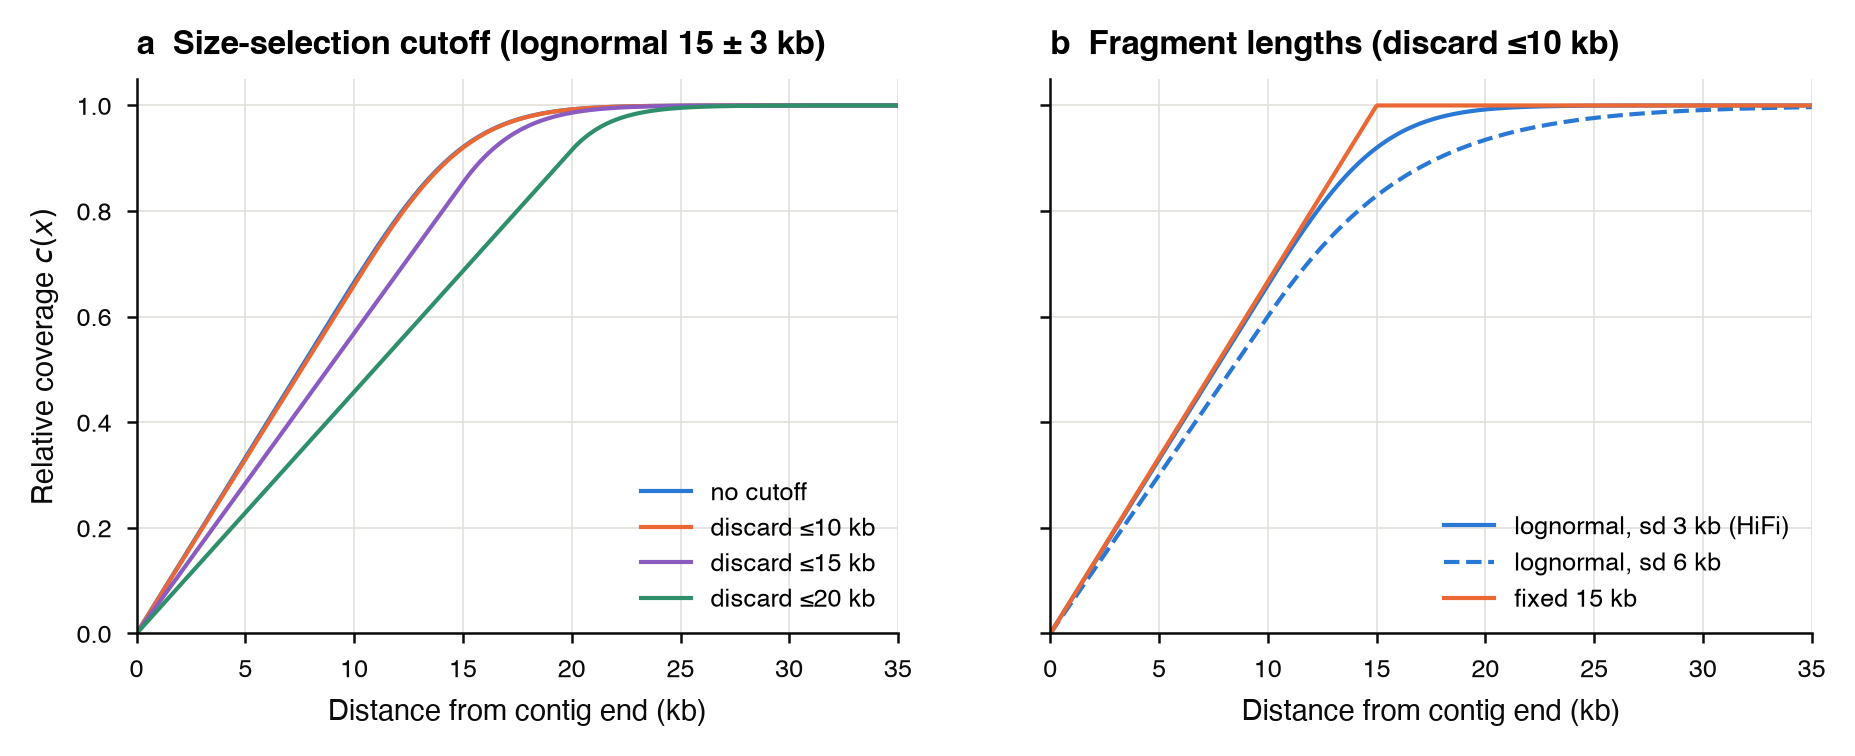
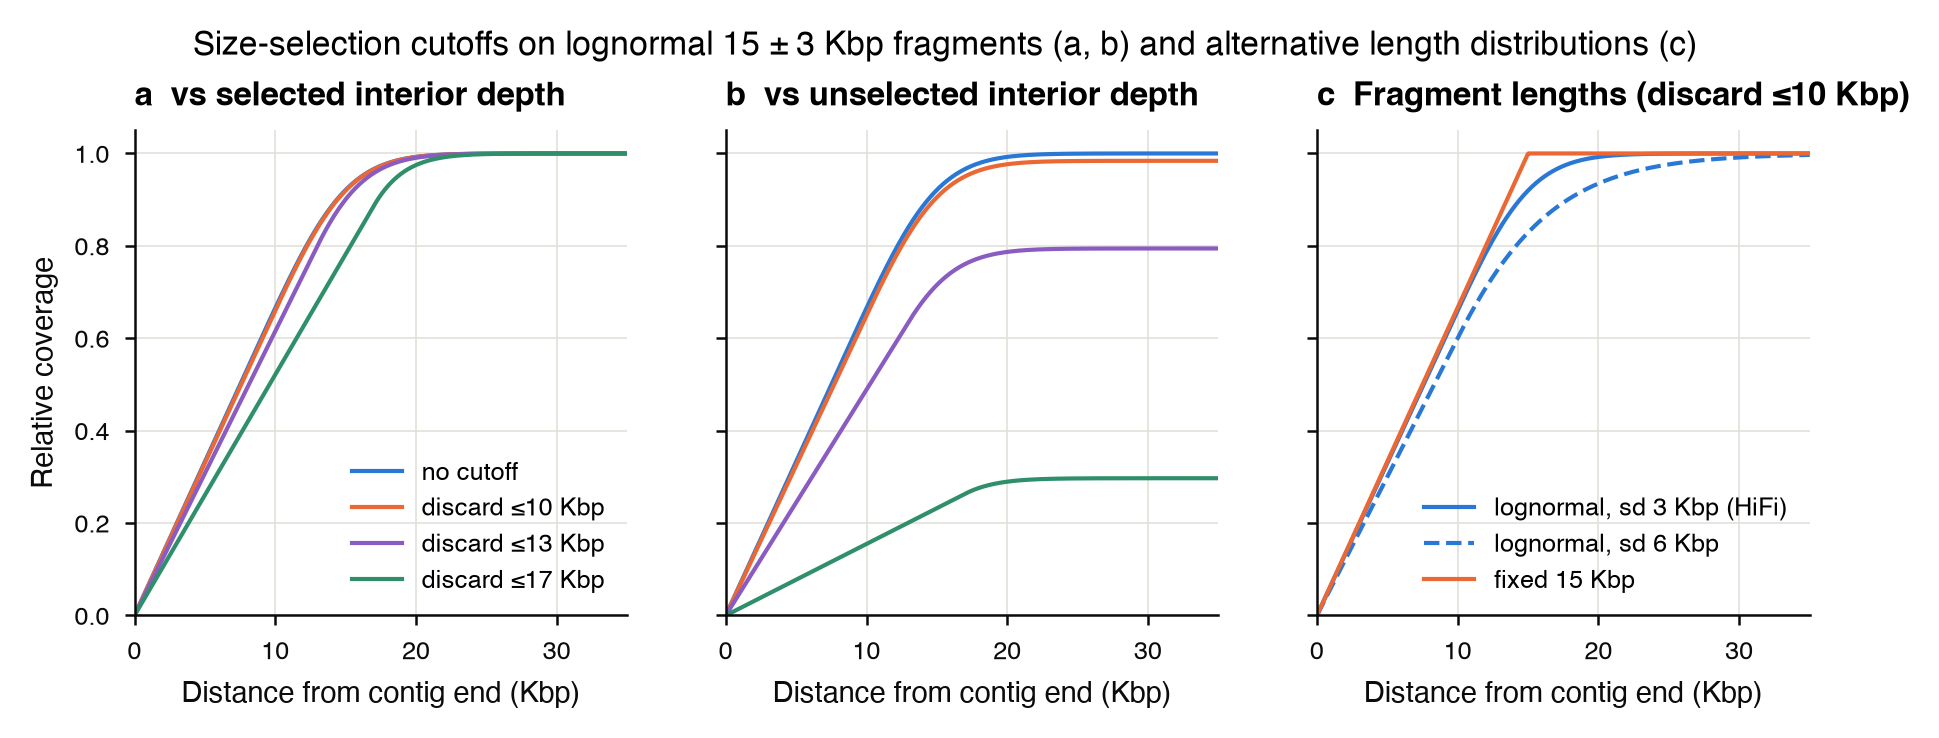
docs: add unselected-library panel, clarify c(x) normalisation, use Kbp units
The analytic figure gains a third panel: (a) coverage relative to the
selected library's own interior depth, (b) the same curves renormalised
to the unselected library so the interior plateau shows the yield lost
to size selection (~98/79/30% of bases retained at 10/13/17 Kbp), and
(c) alternative length distributions. Cutoff family is now 10/13/17 Kbp.
A note on the page explains why c(x) reaches 1 in the interior for any
cutoff, and the takeaways walk through shape vs yield. DNA lengths are
labelled Kbp throughout the figures, page and interactive explorer.

Claude-Session: https://claude.ai/code/session_01KFmp1HkfbvA3PqVqryhb4Q

diff --git a/docs/javascripts/coverage-decay.js b/docs/javascripts/coverage-decay.js
@@ -172,7 +172,7 @@
       el(
         'text',
         { x: PAD_L + plotW / 2, y: H - 8, class: 'cd-label', 'text-anchor': 'middle' },
-        'Distance from contig end (kb)'
+        'Distance from contig end (Kbp)'
       )
     );
     var yLabel = el(
@@ -224,13 +224,13 @@
   // --- controls ----------------------------------------------------------
 
   // Defaults mirror the PacBio HiFi-like library used in the static figures:
-  // lognormal 15 +/- 3 kb with a strict 10 kb lower-bound cutoff.
+  // lognormal 15 +/- 3 Kbp with a strict 10 Kbp lower-bound cutoff.
   var SLIDERS = [
     { key: 'depth', label: 'Interior depth', min: 5, max: 100, step: 1, value: 30, unit: '×' },
-    { key: 'mean', label: 'Mean fragment length', min: 1000, max: 30000, step: 500, value: 15000, unit: 'kb', kb: true },
-    { key: 'sd', label: 'Fragment length sd', min: 500, max: 15000, step: 250, value: 3000, unit: 'kb', kb: true },
-    { key: 'cutoff', label: 'Lower-bound cutoff (discard shorter)', min: 0, max: 25000, step: 500, value: 10000, unit: 'kb', kb: true },
-    { key: 'window', label: 'x-axis range', min: 10000, max: 100000, step: 5000, value: 35000, unit: 'kb', kb: true },
+    { key: 'mean', label: 'Mean fragment length', min: 1000, max: 30000, step: 500, value: 15000, unit: 'Kbp', kb: true },
+    { key: 'sd', label: 'Fragment length sd', min: 500, max: 15000, step: 250, value: 3000, unit: 'Kbp', kb: true },
+    { key: 'cutoff', label: 'Lower-bound cutoff (discard shorter)', min: 0, max: 25000, step: 500, value: 10000, unit: 'Kbp', kb: true },
+    { key: 'window', label: 'x-axis range', min: 10000, max: 100000, step: 5000, value: 35000, unit: 'Kbp', kb: true },
   ];
 
   function fmt(spec, value) {
@@ -315,7 +315,7 @@
         var at1kb = params.depth * curve(1000);
         summary.textContent =
           'Expected reads spanning the outermost base: ' + atEnd.toFixed(2) +
-          ' • covering 1 kb in: ' + at1kb.toFixed(1) +
+          ' • covering 1 Kbp in: ' + at1kb.toFixed(1) +
           ' • interior: ' + params.depth + '. ' +
           'Overhang candidates can only come from that first number.';
       } else {

diff --git a/src/teloclip/model/figures.py b/src/teloclip/model/figures.py
@@ -101,11 +101,13 @@ def plot_decay_families(out_path: str) -> None:
     """
     Plot analytic decay curves across cutoffs and length distributions.
 
-    Two panels around a PacBio HiFi-like library (lognormal, mean 15 kb,
-    sd 3 kb, strict 10 kb lower-bound size selection): (a) that profile under
-    increasingly harsh cutoffs — fragments below the cutoff are discarded —
-    and (b) different fragment-length distributions under the 10 kb cutoff,
-    showing how distribution shape moves the decay.
+    Three panels around a PacBio HiFi-like library (lognormal, mean 15 Kbp,
+    sd 3 Kbp, strict 10 Kbp lower-bound size selection; fragments below the
+    cutoff are discarded): (a) coverage relative to the *selected* library's
+    own interior depth, which isolates the shape of the decay; (b) the same
+    curves renormalised to the *unselected* library's interior depth, which
+    adds back the yield lost to size selection; (c) different fragment-length
+    distributions under the 10 Kbp cutoff.
 
     Parameters
     ----------
@@ -117,51 +119,72 @@ def plot_decay_families(out_path: str) -> None:
     profile = LognormalLengths(mean=15_000.0, sd=3000.0)
     x = np.linspace(0.0, 35_000.0, 700)
     xk = x / 1000.0
+    cutoffs = (0.0, 10_000.0, 13_000.0, 17_000.0)
 
     with nature_style():
-        fig, (ax_a, ax_b) = plt.subplots(
-            1, 2, figsize=(DOUBLE_COL_IN, 2.4), sharey=True
+        fig, (ax_a, ax_b, ax_c) = plt.subplots(
+            1, 3, figsize=(DOUBLE_COL_IN, 2.1), sharey=True
         )
 
-        # Panel a: one distribution, one distinctly coloured curve per
-        # cutoff, identified through the legend.
-        cutoffs = (0.0, 10_000.0, 15_000.0, 20_000.0)
+        # Panels a and b: one distribution, one distinctly coloured curve per
+        # cutoff, identified through the shared legend. Panel a normalises to
+        # the selected library's interior depth (c(x), which always reaches 1
+        # in the interior); panel b rescales each curve by the fraction of
+        # sequenced bases the cutoff retains, S(Lmin) * E[l|trunc] / E[l], so
+        # the interior plateau shows the yield cost at equal sequencing
+        # effort.
         for cutoff, color in zip(cutoffs, CUTOFF_COLORS):
             c = expected_relative_coverage(x, profile, min_length=cutoff)
-            label = 'no cutoff' if cutoff == 0 else f'discard ≤{cutoff / 1000:g} kb'
+            label = 'no cutoff' if cutoff == 0 else f'discard ≤{cutoff / 1000:g} Kbp'
             ax_a.plot(xk, c, color=color, label=label)
+            if cutoff > 0:
+                surv = float(profile.survival(np.array([cutoff]))[0])
+                retained = surv * profile.truncated_mean(cutoff) / profile.mean
+            else:
+                retained = 1.0
+            ax_b.plot(xk, retained * c, color=color)
         ax_a.legend(loc='lower right')
-        ax_a.set_xlabel('Distance from contig end (kb)')
-        ax_a.set_ylabel('Relative coverage $c(x)$')
+        ax_a.set_ylabel('Relative coverage')
         ax_a.set_title(
-            'a  Size-selection cutoff (lognormal 15 ± 3 kb)',
+            'a  vs selected interior depth',
+            loc='left',
+            fontweight='bold',
+        )
+        ax_b.set_title(
+            'b  vs unselected interior depth',
             loc='left',
             fontweight='bold',
         )
 
-        # Panel b: one cutoff, distribution identity in the two categorical
-        # hues plus line style, each directly labelled.
+        # Panel c: one cutoff, distribution identity in the two categorical
+        # hues plus line style.
         cutoff = 10_000.0
         series = (
-            (profile, BLUE, '-', 'lognormal, sd 3 kb (HiFi)'),
+            (profile, BLUE, '-', 'lognormal, sd 3 Kbp (HiFi)'),
             (
                 LognormalLengths(mean=15_000.0, sd=6000.0),
                 BLUE,
                 '--',
-                'lognormal, sd 6 kb',
+                'lognormal, sd 6 Kbp',
             ),
-            (FixedLength(15_000.0), ORANGE, '-', 'fixed 15 kb'),
+            (FixedLength(15_000.0), ORANGE, '-', 'fixed 15 Kbp'),
         )
         for dist, color, style, label in series:
             c = expected_relative_coverage(x, dist, min_length=cutoff)
-            ax_b.plot(xk, c, color=color, linestyle=style, label=label)
-        ax_b.set_xlabel('Distance from contig end (kb)')
-        ax_b.set_title(
-            'b  Fragment lengths (discard ≤10 kb)', loc='left', fontweight='bold'
+            ax_c.plot(xk, c, color=color, linestyle=style, label=label)
+        ax_c.set_title(
+            'c  Fragment lengths (discard ≤10 Kbp)', loc='left', fontweight='bold'
         )
-        ax_b.legend(loc='lower right')
+        ax_c.legend(loc='lower right')
 
-        for ax in (ax_a, ax_b):
+        fig.suptitle(
+            'Size-selection cutoffs on lognormal 15 ± 3 Kbp fragments (a, b)'
+            ' and alternative length distributions (c)',
+            y=1.04,
+            fontsize=8,
+        )
+        for ax in (ax_a, ax_b, ax_c):
+            ax.set_xlabel('Distance from contig end (Kbp)')
             ax.set_xlim(0, 35)
             ax.set_ylim(0, 1.05)
 
@@ -239,13 +262,13 @@ def plot_decay_with_ci(
             color=MUTED,
         )
 
-        ax.set_xlabel('Distance from contig end (kb)')
+        ax.set_xlabel('Distance from contig end (Kbp)')
         ax.set_ylabel('Coverage (reads)')
         ax.set_xlim(0, window / 1000.0)
         ax.set_ylim(0, None)
         ax.set_title(
-            f'Lognormal fragments {profile.mean / 1000:g} ± {profile.sd / 1000:g} kb'
-            f' · discard ≤{cutoff / 1000:g} kb · depth {depth:g}×',
+            f'Lognormal fragments {profile.mean / 1000:g} ± {profile.sd / 1000:g} Kbp'
+            f' · discard ≤{cutoff / 1000:g} Kbp · depth {depth:g}×',
             loc='left',
             fontweight='bold',
         )

diff --git a/docs/guide/coverage-decay.md b/docs/guide/coverage-decay.md
@@ -42,6 +42,18 @@ fragment length, so both numerator and denominator use the truncated
 distribution. Absolute expected coverage is \(D \cdot c(x)\), where \(D\) is
 the interior depth after size selection.
 
+!!! note "What \(c(x)\) is normalised to"
+
+    \(c(x)\) is coverage relative to the interior depth of the *selected*
+    library — the reads that survive the cutoff. Because the survivors, however
+    few, still fragment uniformly along the molecule, they tile the interior
+    evenly and \(c(x) \to 1\) in the interior for **any** cutoff. What a harsh
+    cutoff really costs is *yield*: at equal sequencing effort, only a fraction
+    \(S(L_{\min}) \cdot \mathbb{E}[\ell \mid \ell \ge L_{\min}] / \mathbb{E}[\ell]\)
+    of sequenced bases survive, so the absolute depth \(D\) drops everywhere.
+    Panel **b** below adds that yield factor back by normalising to the
+    *unselected* library's interior depth.
+
 The model assumes the molecule is far longer than any fragment
 (semi-infinite): on a real chromosome the same decay is simply mirrored at
 the other terminus.
@@ -78,34 +90,43 @@ curve near the terminus.
 ## What the curves look like
 
 The figures below use a PacBio HiFi-like library: lognormal fragment lengths
-with mean 15 kb and sd 3 kb, and a strict lower-bound size-selection cutoff
-of 10 kb (every fragment shorter than the cutoff is discarded).
+with mean 15 Kbp and sd 3 Kbp, and a strict lower-bound size-selection cutoff
+of 10 Kbp (every fragment shorter than the cutoff is discarded).
 
-![Two-panel figure of analytic coverage-decay curves. Panel a: relative coverage against distance from the contig end for a lognormal read profile with mean 15 kb and sd 3 kb under lower-bound size-selection cutoffs of none, 10, 15 and 20 kb; harsher cutoffs push the decay region deeper into the contig. Panel b: the same curve at the 10 kb cutoff for the HiFi profile, a wider sd 6 kb lognormal, and a fixed 15 kb fragment length; wider length distributions stretch the decay further.](../images/coverage-decay-analytic.png)
+![Three-panel figure of analytic coverage-decay curves for a lognormal read profile with mean 15 Kbp and sd 3 Kbp. Panel a: coverage relative to the selected library's interior depth under lower-bound cutoffs of none, 10, 13 and 17 Kbp; every curve reaches 1 in the interior, and harsher cutoffs deepen the decay region. Panel b: the same curves normalised to the unselected library's interior depth; the interior plateaus drop to 98, 79 and 30 percent as the cutoffs discard more of the library. Panel c: the decay at the 10 Kbp cutoff for the HiFi profile, a wider sd 6 Kbp lognormal, and a fixed 15 Kbp fragment length; wider length distributions stretch the decay further.](../images/coverage-decay-analytic.png)
 
-Three things to take away:
+Four things to take away:
 
 - **The decay region is about one (truncated) mean fragment length deep.**
-  With the 15 ± 3 kb HiFi profile, coverage within 5 kb of the terminus is
+  With the 15 ± 3 Kbp HiFi profile, coverage within 5 Kbp of the terminus is
   only about a third of the interior depth, and interior depth is not
-  reached until ~20 kb in.
+  reached until ~20 Kbp in.
 - **Below the cutoff distance the curve is an exact straight line.** Every
-  surviving fragment is at least 10 kb, so for \(x < L_{\min}\) the number
+  surviving fragment is at least 10 Kbp, so for \(x < L_{\min}\) the number
   of placements that cover \(x\) grows linearly with \(x\) regardless of the
   length distribution — the distribution only shapes the shoulder beyond the
   cutoff.
-- **Cutoffs bite when they reach the typical length.** The 10 kb HiFi cutoff
-  discards only ~3% of a 15 ± 3 kb library, so its curve sits almost on the
-  no-cutoff curve; pushing the cutoff to 15–20 kb (at or above the mean)
-  discards most fragments and drags the depleted region far deeper.
+- **Panel a shows shape; panel b shows shape plus yield.** In panel a even
+  the ≤17 Kbp curve reaches 1 in the interior, which can look wrong — the
+  15 ± 3 Kbp library has almost no fragments that long. It is correct
+  because \(c(x)\) is normalised to the *selected* library's own interior
+  depth (see the note above). Panel b renormalises to the unselected
+  library: at equal sequencing effort the 10, 13 and 17 Kbp cutoffs retain
+  ~98%, ~79% and ~30% of sequenced bases, which is where those interior
+  plateaus land.
+- **Cutoffs bite when they reach the typical length.** The 10 Kbp HiFi
+  cutoff discards only ~3% of fragments, so its curves sit almost on the
+  no-cutoff curves in both panels; cutoffs approaching the mean (13 Kbp
+  discards ~27% of fragments, 17 Kbp ~77%) deepen the depleted region *and*
+  collapse yield.
 
-Simulation confirms the analytic curve. Each simulation fragments a 1 Mb
-molecule with lognormal fragment lengths (mean 15 kb, sd 3 kb), discards
-fragments below the 10 kb lower-bound cutoff, places the survivors at 30×
+Simulation confirms the analytic curve. Each simulation fragments a 1 Mbp
+molecule with lognormal fragment lengths (mean 15 Kbp, sd 3 Kbp), discards
+fragments below the 10 Kbp lower-bound cutoff, places the survivors at 30×
 interior depth, and tallies terminal coverage; the band spans the central
 95% of 200 independent runs:
 
-![Simulated terminal coverage for lognormal fragment lengths with mean 15 kb and standard deviation 3 kb under a strict 10 kb lower-bound size-selection cutoff at thirty-fold interior depth, with a 95 percent bootstrap band from 200 simulations, overlaid with the analytic expectation, which tracks the simulated mean closely across the whole decay region.](../images/coverage-decay-bootstrap.png)
+![Simulated terminal coverage for lognormal fragment lengths with mean 15 Kbp and standard deviation 3 Kbp under a strict 10 Kbp lower-bound size-selection cutoff at thirty-fold interior depth, with a 95 percent bootstrap band from 200 simulations, overlaid with the analytic expectation, which tracks the simulated mean closely across the whole decay region.](../images/coverage-decay-bootstrap.png)
 
 !!! note "Reproducing these figures"
 
@@ -131,8 +152,8 @@ browser; the readout reports expected absolute coverage near the terminus.
 
 - **Overhang reads are the survivors of this decay.** A read can only carry
   an overhang if it covers the outermost base, where coverage is at its
-  minimum — at 30× interior depth with the 15 ± 3 kb HiFi profile and a
-  10 kb cutoff, expect only a handful of reads to span any given terminus. Zero overhangs
+  minimum — at 30× interior depth with the 15 ± 3 Kbp HiFi profile and a
+  10 Kbp cutoff, expect only a handful of reads to span any given terminus. Zero overhangs
   at one contig end is often just sampling, not a structural problem.
 - **Depth for telomere recovery is set by \(D \cdot c(0^+)\), not \(D\).**
   If you want, say, ≥5 candidate overhang reads per end, work back from the
